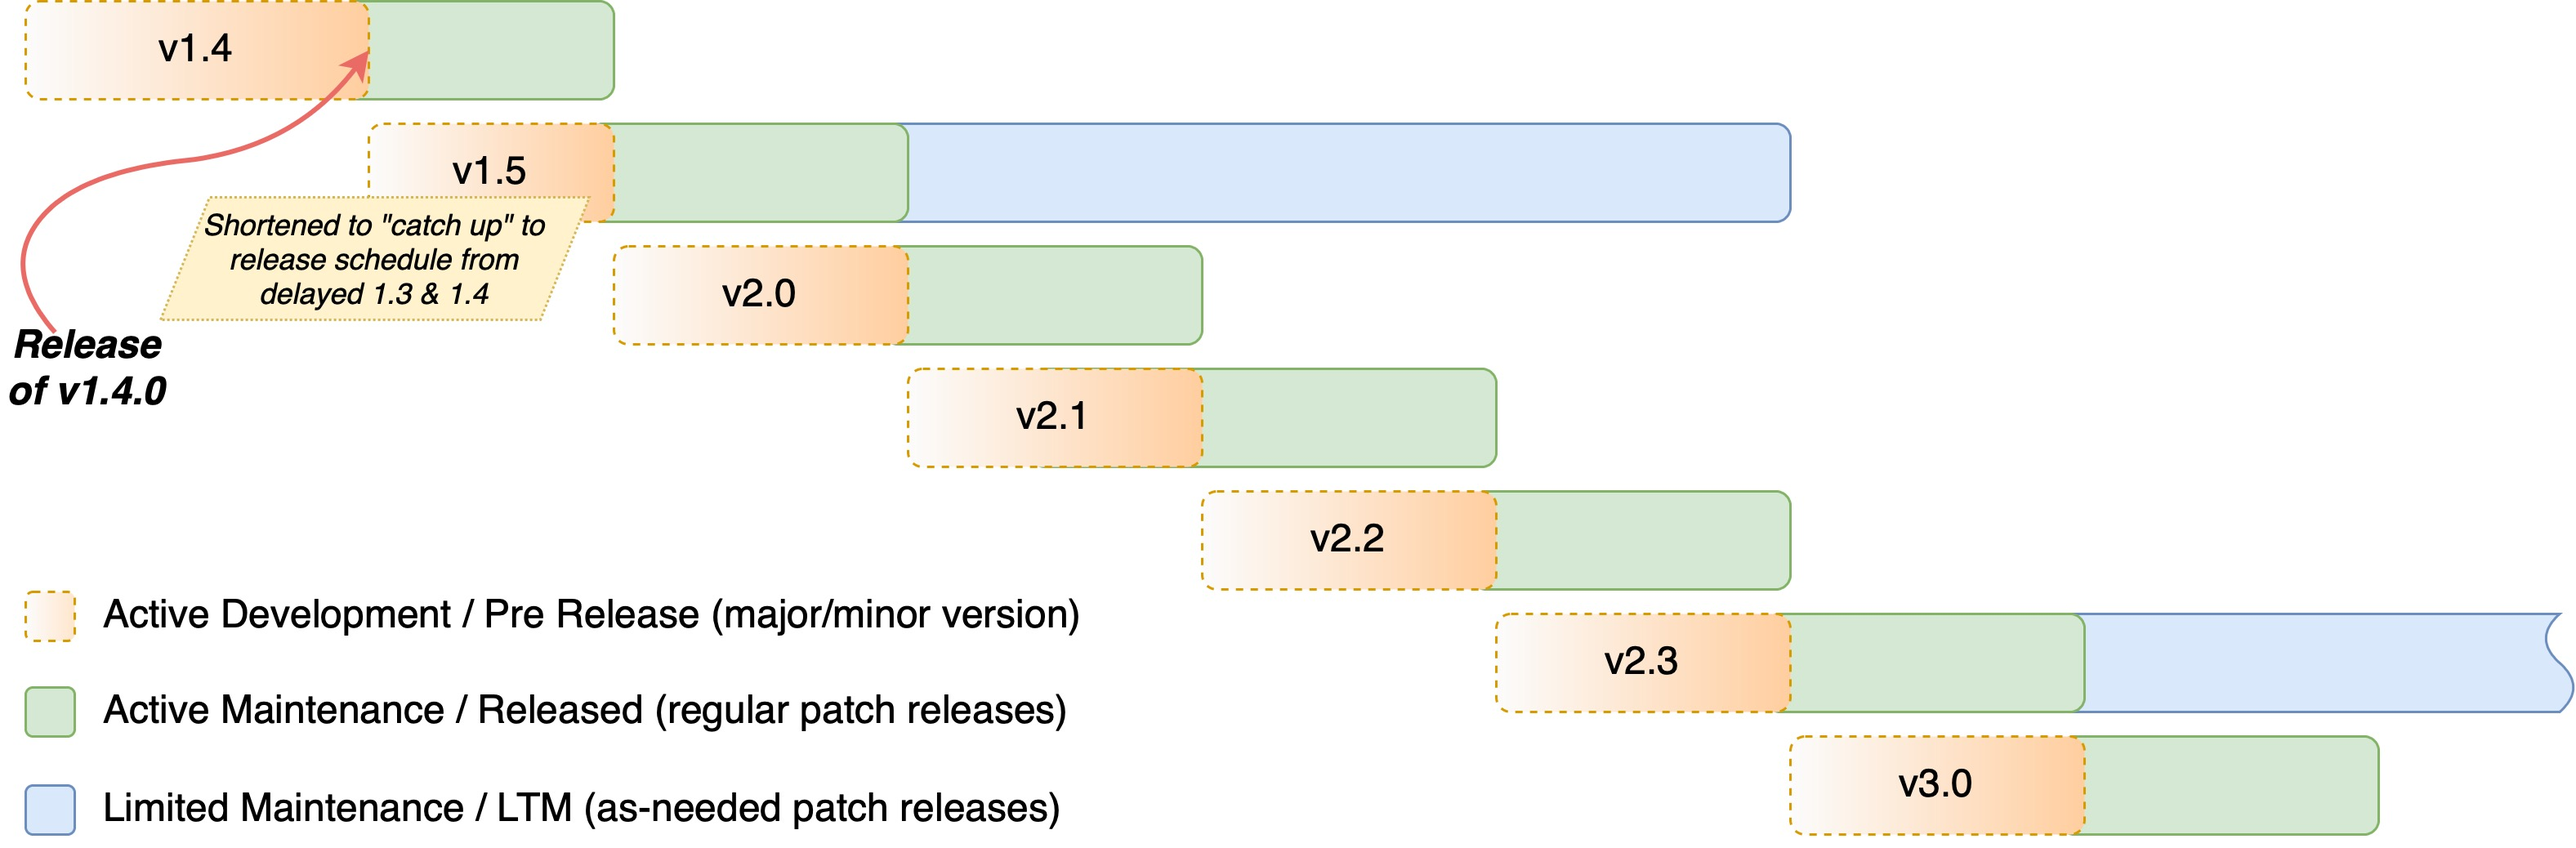
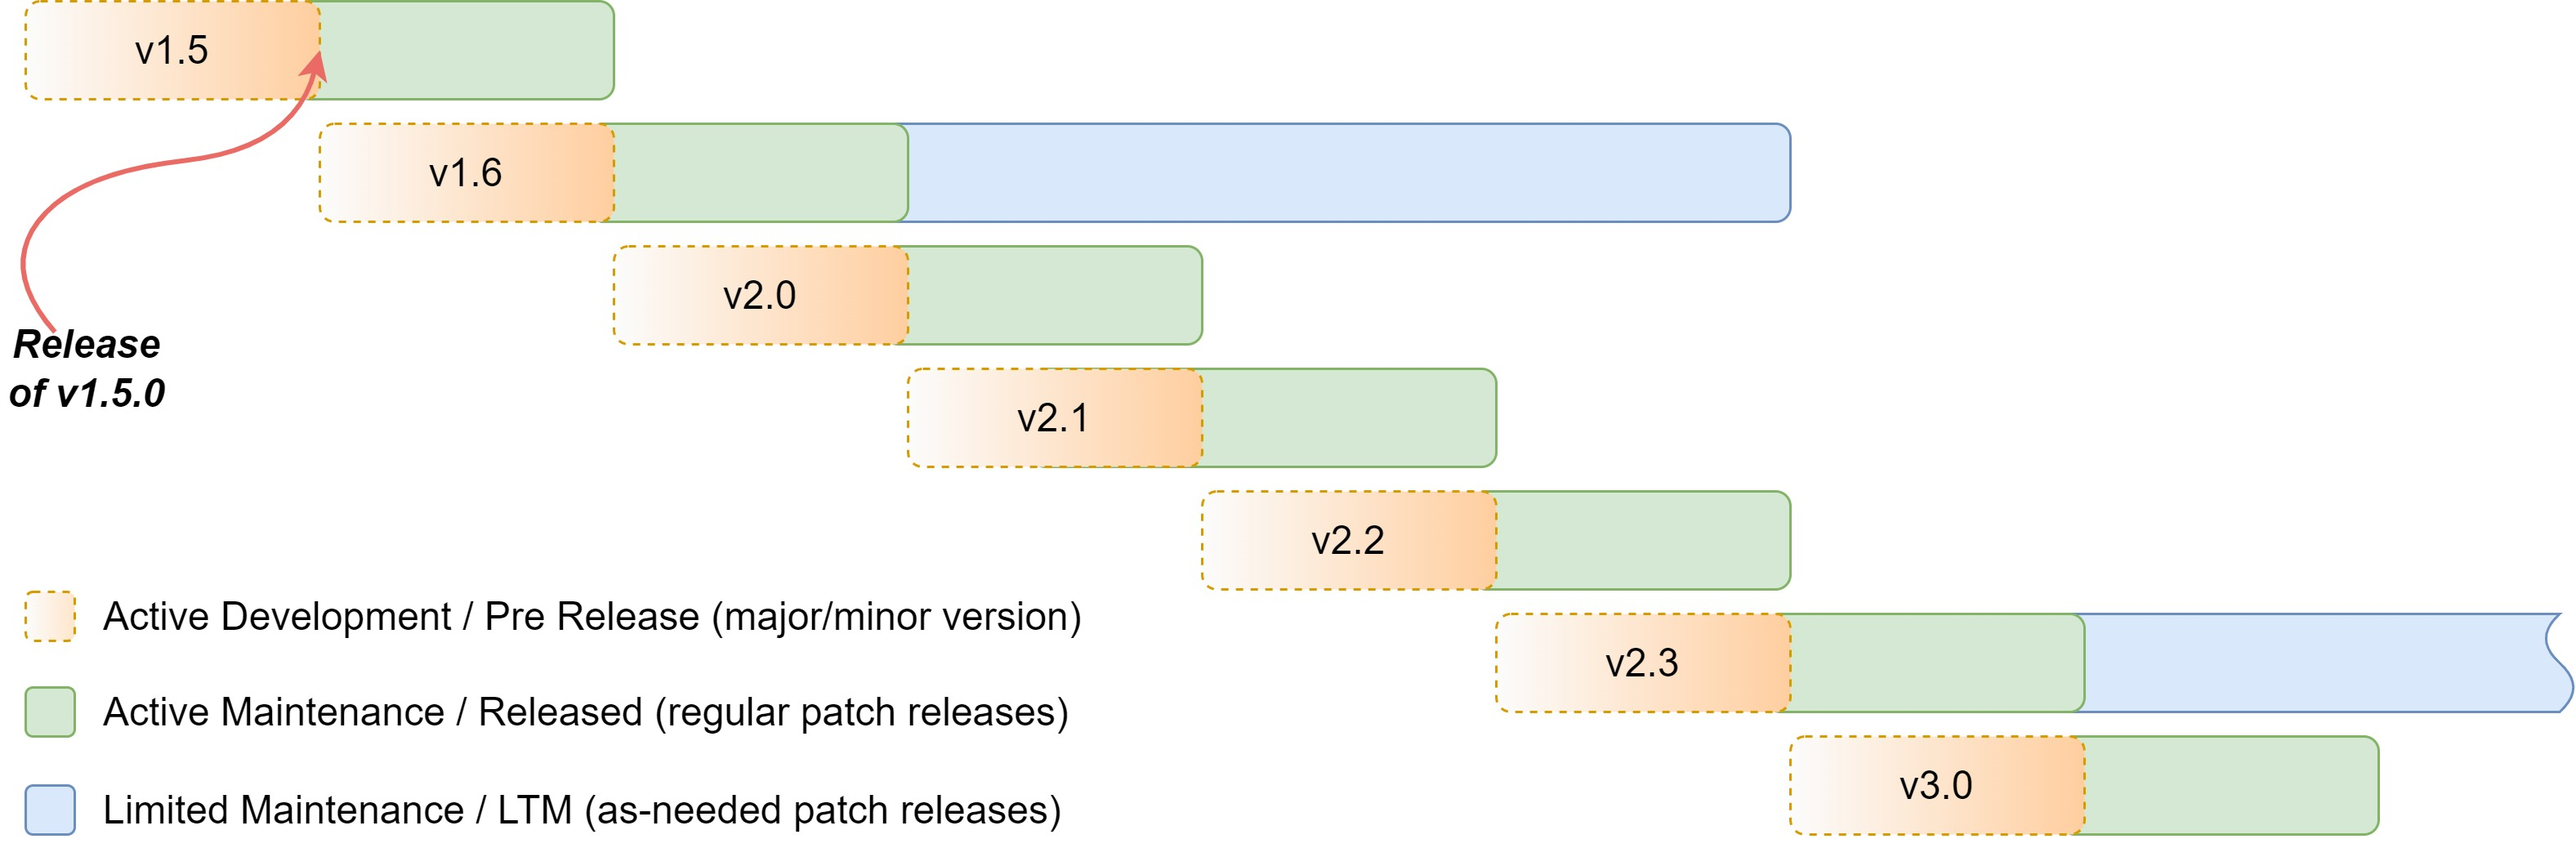
Fixed docs incorrectly referencing Nautobot 1.5 as the LTM release for 1.x. (#4727)

diff --git a/nautobot/docs/development/core/index.md b/nautobot/docs/development/core/index.md
@@ -118,7 +118,7 @@ For the sake of abundance in clarity, we are officially naming what is sometimes
 
 New users who may choose to install an "LTS" release because it is assumed to be more stable, may almost immediately be presented with breaking changes upon their next upgrade to a "stable" Nautobot release. We want to avoid any confusion that may arise between the term "stable" representing our latest stable release compared to "long term support" which is commonly interpreted to represent a stable release.
 
-Our LTM release will be the last minor version of the previous major release train. At the time of this writing `1.5` will be our maintenance release train of Nautobot for the `1.y` release cycle. Version 1 of Nautobot had an extended release cycle as it was our first major release of the platform. Going forward it can be expected that the `x.3` version of the platform will be the maintenance train of any major version.
+Our LTM release will be the last minor version of the previous major release train. At the time of this writing `1.6` will be our maintenance release train of Nautobot for the `1.y` release cycle. Version 1 of Nautobot had an extended release cycle as it was our first major release of the platform. Going forward it can be expected that the `x.3` version of the platform will be the maintenance train of any major version.
 
 With this schedule you can expect a few things per major/minor release:
 
@@ -145,9 +145,9 @@ A maintenance release will be actively maintained until the next maintenance rel
 
 #### Launch of Maintenance Release Schedule (as an Example)
 
-At the time of this writing we are in the active development of Nautobot 1.5. This will be our last minor release of the v1 series of releases and therefore become our first "Long Term Maintenance" (LTM) release of Nautobot. We will be actively applying the normal category of bug fixes (including UI tweaks, display bugs, etc.) to this release train until the release of Nautobot 2.0.
+At the time of this writing we are in the active development of Nautobot 1.6. This will be our last minor release of the v1 series of releases and therefore become our first "Long Term Maintenance" (LTM) release of Nautobot. We will be actively applying the normal category of bug fixes (including UI tweaks, display bugs, etc.) to this release train until the release of Nautobot 2.0.
 
-Once we launch Nautobot 2.0, 1.5 will go into maintenance mode and be considered LTM, continuing to receive data loss and CVE-related fixes. At that time we will encourage users to migrate to v2 as they are ready. Nautobot 1.5 will continue to receive such fixes until the release of Nautobot 2.3, where we will end the maintenance of Nautobot 1.5 and it will formally become "End of Life" (EOL). Nautobot 2.3 will then become the LTM release until Nautobot 3.3 is published the following year.
+Once we launch Nautobot 2.0, 1.6 will go into maintenance mode and be considered LTM, continuing to receive data loss and CVE-related fixes. At that time we will encourage users to migrate to v2 as they are ready. Nautobot 1.6 will continue to receive such fixes until the release of Nautobot 2.3, where we will end the maintenance of Nautobot 1.6 and it will formally become "End of Life" (EOL). Nautobot 2.3 will then become the LTM release until Nautobot 3.3 is published the following year.
 
 If for any reason the next maintenance release is delayed, we will continue to support the current maintenance release. There is no time limitation for this. We want to ensure our users always have a maintenance release available.
 
